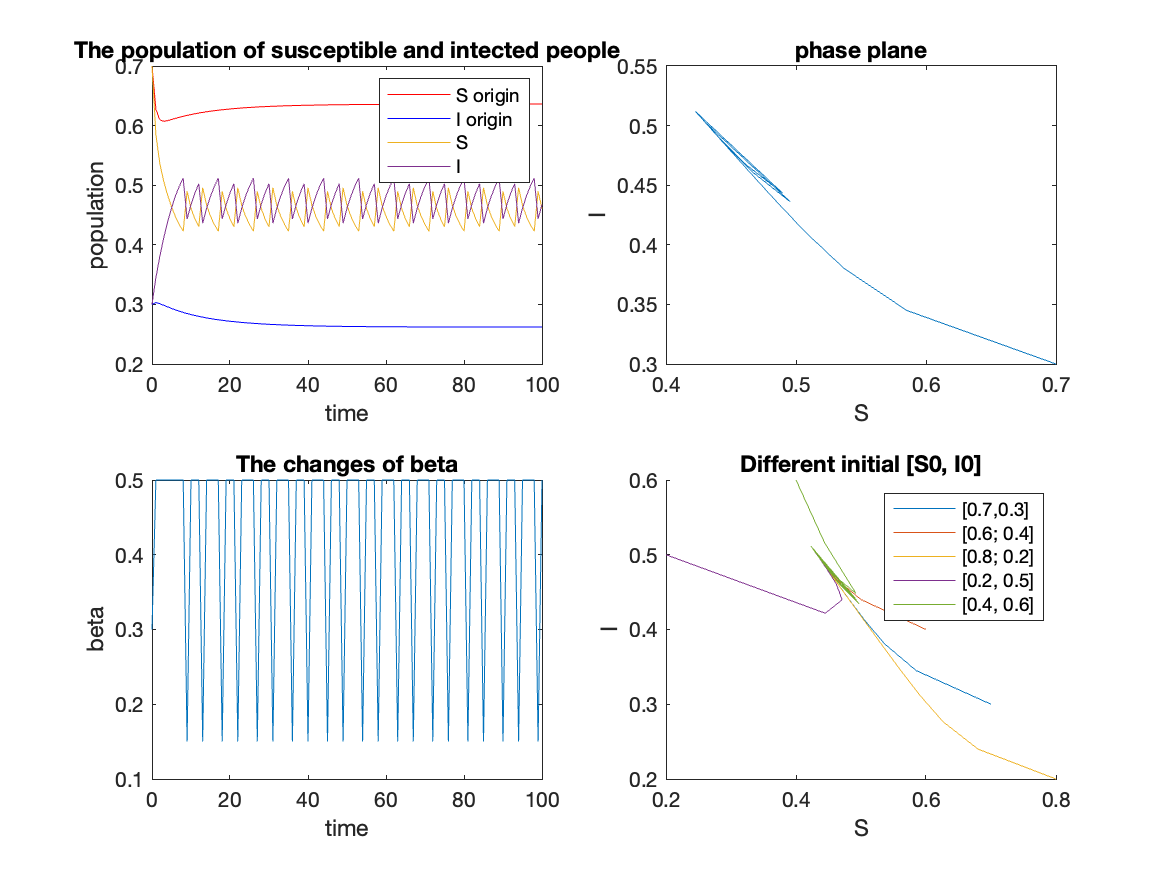
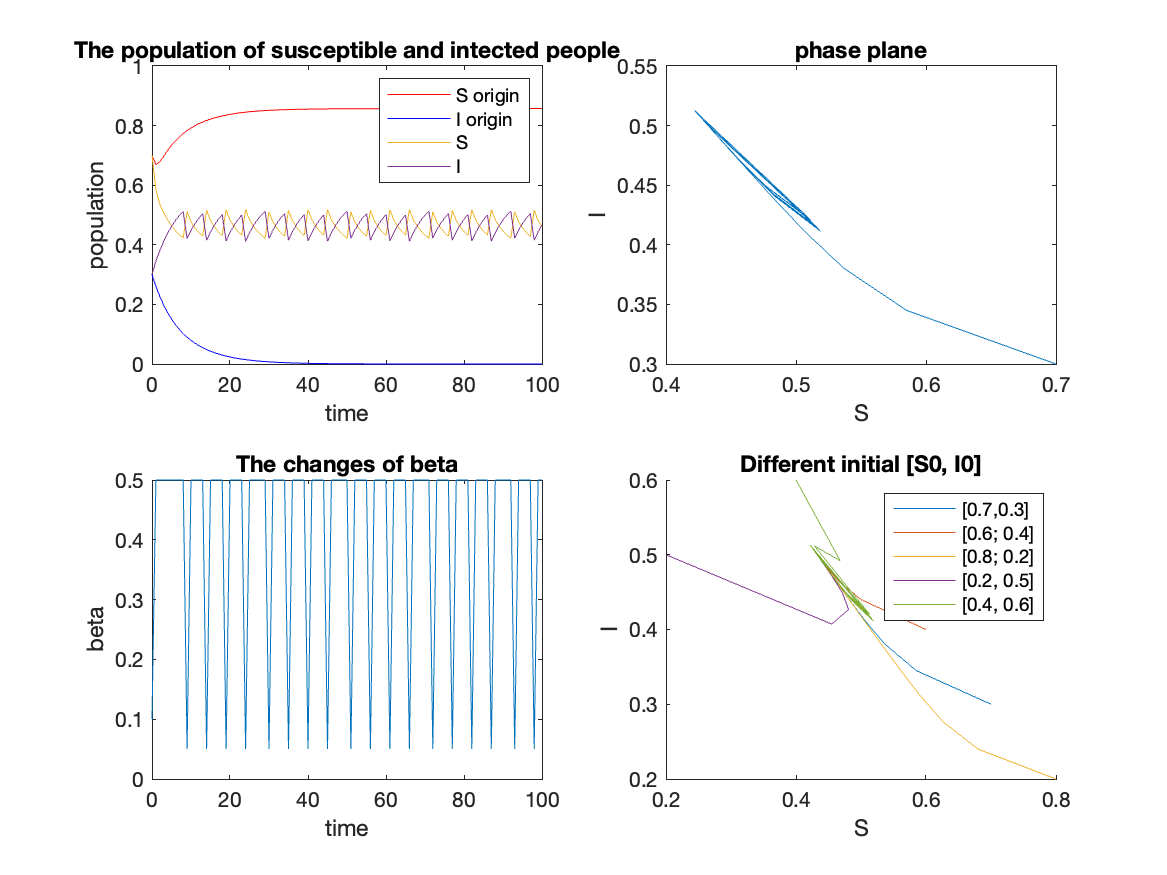
basic model

diff --git a/Basic Model/plot_different_beta0.m b/Basic Model/plot_different_beta0.m
@@ -19,7 +19,7 @@ N = (tspan(2)-tspan(1))/h;  % one day
 % infection rate when there is no policy
 
 
-beta0s = [0.3; 0.4; 0.5; 0.6; 0.7];
+beta0s = [0.1; 0.2; 0.3; 0.4; 0.5; 0.6; 0.7;0.8;0.9;1.0];
 eplison = 0.5;
 threshold = 0.5;    
 amplitudes = zeros(length(beta0s),2);
@@ -42,8 +42,8 @@ for A = 1:length(beta0s)
     
     title('The population of susceptible and intected people')
     
-    susceptible = Eulerp(1,10:100);
-    infected = Eulerp(2,10:100);
+    susceptible = Eulerp(1,80:100);
+    infected = Eulerp(2,80:100);
     
     max_S = max(susceptible);
     min_S = min(susceptible);
@@ -57,24 +57,7 @@ for A = 1:length(beta0s)
     amplitudes(A,2) = amplitude_I;
     fprintf("The amplitude of S: %.2f, I: %.2f\n", amplitude_S, amplitude_I);
 
-    tol = 1e-12;
-    for i = 1:length(withoutpolicy)-1
-        fprintf("%d %d\n", withoutpolicy(1,i),withoutpolicy(2,i));
-        diff_S = withoutpolicy(1,i+1) - withoutpolicy(1,i);
-        diff_I = withoutpolicy(2,i+1) - withoutpolicy(2,i);
-    
-        if abs(diff_S) < tol && abs(diff_I) < tol
-            fprintf("Difference: %d, %d\n", diff_S, diff_I);
-            fprintf("The steady state of (S, I): %.2f, %.2f\n", withoutpolicy(1,i),withoutpolicy(2,i));
-            differences(A,1) = withoutpolicy(1,i);
-            differences(A,2) = withoutpolicy(2,i);
-            break;
-        end
-    end 
-
-%     differences(A,1) = diff_S;
-%     differences(A,2) = diff_I;
-
+  
     % the phase plane S-I
     subplot(2,2,2);
     plot(Eulerp(1,:),Eulerp(2,:))
@@ -134,15 +117,3 @@ xlabel('initial beta');
 ylabel('amplitude of oscillation')
 legend('S', 'I');
 saveas(gcf,"amplitude-beta0",'png');
-
-figure;
-plot(beta0s, differences(:,1));
-hold on;
-plot(beta0s, differences(:,2));
-hold off;
-title("steady state of oscillation with difference beta")
-xlabel('initial beta');
-ylabel('steady state')
-legend('S', 'I');
-
-saveas(gcf,"steady-beta0",'png');

diff --git a/Basic Model/plot_different_steady_state.m b/Basic Model/plot_different_steady_state.m
@@ -1,0 +1,58 @@
+% for only one threshold policy (e.g. lockdown)
+% steady state will change
+
+tspan = [0 300];   % days
+S0 = 0.7;           % initial susceptible population 
+I0 = 0.3;           % initial intected proportion
+
+p0 = [S0; I0];      % vector of ode 
+h = 1;
+N = (tspan(2)-tspan(1))/h;  % one day
+
+% Euler methods
+% Eulerp: the vector[s,i] with threshold policy
+% withoutpolicy: vector[s,i] without policy
+% betas: the beta changes when threshold policy
+
+% change the parameters in Ic, beta0, eplison
+% the threshold of infectious people
+% infection rate when there is no policy
+
+
+beta0s = [0.1; 0.2; 0.3; 0.4; 0.5; 0.6; 0.7;0.8;0.9;1.0];
+eplison = 0.5;
+threshold = 0.5;    
+amplitudes = zeros(length(beta0s),2);
+differences = zeros(length(beta0s),2);
+for A = 1:length(beta0s)
+    [t1,Eulerp,withoutpolicy,betas] = basicmodel(tspan,p0,N,threshold,beta0s(A,1), eplison);  
+
+    tol = 1e-5;
+    for i = 1:length(withoutpolicy)-1
+        fprintf("%d %d\n", withoutpolicy(1,i),withoutpolicy(2,i));
+        diff_S = withoutpolicy(1,i+1) - withoutpolicy(1,i);
+        diff_I = withoutpolicy(2,i+1) - withoutpolicy(2,i);
+    
+        if abs(diff_S) < tol && abs(diff_I) < tol
+            fprintf("Difference: %d, %d\n", diff_S, diff_I);
+            fprintf("The steady state of (S, I): %.2f, %.2f\n", withoutpolicy(1,i),withoutpolicy(2,i));
+            differences(A,1) = withoutpolicy(1,i);
+            differences(A,2) = withoutpolicy(2,i);
+            break;
+        end
+    end 
+
+end
+
+
+figure;
+plot(beta0s, differences(:,1));
+hold on;
+plot(beta0s, differences(:,2));
+hold off;
+title("steady state of oscillation with difference beta")
+xlabel('initial beta');
+ylabel('steady state')
+legend('S', 'I');
+
+saveas(gcf,"steady-beta0",'png');

diff --git a/Basic Model/plot_different_Ic.m b/Basic Model/plot_different_Ic.m
@@ -20,7 +20,7 @@ N = (tspan(2)-tspan(1))/h;  % one day
 
 beta0 = 0.5;
 eplison = 0.5;
-thresholds = [0.1;0.2; 0.3; 0.4; 0.5; 0.6;0.7];    
+thresholds = [0.1;0.2; 0.3; 0.4; 0.5; 0.6;0.7;0.8;0.9;1.0];    
 amplitudes = zeros(length(thresholds),2);
 for A = 1:length(thresholds)
     fprintf('%d\n', A);
@@ -54,19 +54,36 @@ for A = 1:length(thresholds)
     ylabel('beta')
     title('The changes of beta')
 
-    susceptible = Eulerp(1,10:100);
-    infected = Eulerp(2,10:100);
+    susceptible = Eulerp(1,80:100);
+    infected = Eulerp(2,80:100);
     
     max_S = max(susceptible);
     min_S = min(susceptible);
-    amplitude_S = max_S - min_S;
+    
     
     max_I = max(infected);
     min_I = min(infected);
-    amplitude_I = max_I - min_I;
+    
+
+    [pks,locs] = findpeaks(susceptible);
+    [pks_I,locs_I] = findpeaks(infected);
+
+    if isempty(locs)
+        amplitude_S = 0;
+    else
+        amplitude_S = max_S - min_S;
+    end
+
+    if isempty(locs_I)
+        amplitude_I = 0;
+    else
+        amplitude_I = max_I - min_I;
+    end
     
     amplitudes(A,1) = amplitude_S;
     amplitudes(A,2) = amplitude_I;
+
+
     fprintf("The amplitude of S: %.2f, I: %.2f\n", amplitude_S, amplitude_I);
     
     % different initial state 定义多种不同的初始值
@@ -108,4 +125,7 @@ plot(thresholds,amplitudes(:,1));
 hold on;
 plot(thresholds,amplitudes(:,2));
 hold off;
+xlabel('threshold Ic')
+ylabel('amplitude')
+title('amplitude-threshold')
 saveas(gcf,"amplitude-threshold",'png');

diff --git a/Basic Model/am_eplison.m b/Basic Model/am_eplison.m
@@ -20,18 +20,18 @@ N = (tspan(2)-tspan(1))/h;  % one day
 
 beta0 = 0.5;
 eplison = 0.5;
-thresholds = [0.1;0.2; 0.3; 0.4; 0.5; 0.6;0.7]; 
+threshold = 0.5;
 steps = 0.01;
-amplitudes = zeros(length(0.1:steps:0.7),2);
+amplitudes = zeros(length(0.1:steps:1.0),2);
 % for A = 1:length(thresholds)
 i = 1;
-for A = 0.1:steps:0.7
+for A = 0.1:steps:1.0
     fprintf('%.2f\n', A);
 
-    [t1,Eulerp,withoutpolicy,betas] = basicmodel(tspan,p0,N,A,beta0, eplison);
+    [t1,Eulerp,withoutpolicy,betas] = basicmodel(tspan,p0,N,threshold,beta0, A);
 
-    susceptible = Eulerp(1,80:100);
-    infected = Eulerp(2,80:100);
+    susceptible = Eulerp(1,30:100);
+    infected = Eulerp(2,30:100);
     
     max_S = max(susceptible);
     min_S = min(susceptible);
@@ -63,11 +63,11 @@ end
 
 
 figure;
-plot(0.1:steps:0.7,amplitudes(:,1));
+plot(0.1:steps:1.0,amplitudes(:,1));
 hold on;
-plot(0.1:steps:0.7,amplitudes(:,2));
+plot(0.1:steps:1.0,amplitudes(:,2));
 hold off;
-xlabel('threshold Ic')
+xlabel('eplison')
 ylabel('amplitude')
-title('amplitude-threshold')
-saveas(gcf,"amplitude-threshold-details",'png');
+title('amplitude-eplison')
+saveas(gcf,"amplitude-eplison-details",'png');

diff --git a/Basic Model/fzeroode.m b/Basic Model/fzeroode.m
@@ -1,0 +1,28 @@
+
+sigma = 0.3;        % effectiveness of the vaccination sigma=1 vaccination no effect 0.3
+mu = 0.1;          % natural birth/death rate 0.05
+gamma = 0.1;        % recovery rate 0.1
+theta = 0.5;      % rate of loss of community 0.002
+phi = 0.1;         % vaccination rate  0.07
+
+beta = 0.5;
+% dS = mu - beta * S * I - (mu + theta + phi) * S + (gamma - theta) * I + theta;
+% dI = beta * S * I + sigma * beta * I * (1 - S - I) - (mu + gamma) * I;
+% 
+% fzero(@(x) odefunc(x, y0), [a, b]);
+
+% Define the system of equations
+equations = @(variables) [
+    mu - beta * variables(1) * variables(2) - (mu + theta + phi) * variables(1) + (gamma - theta) * variables(2) + theta;
+    beta * variables(1) * variables(2) + sigma * beta * variables(2) * (1 - variables(1) - variables(2)) - (mu + gamma) * variables(2)
+];
+
+% Set initial guess for the variables
+variables_guess = [0.5; 0.5];
+
+% Solve the system of equations using fsolve
+variables_steady = fsolve(equations, variables_guess);
+% variables_steady = fzero(@equations, variables_guess);
+% Extract the steady state values
+S_steady = variables_steady(1);
+I_steady = variables_steady(2);

diff --git a/Basic Model/am_beta.m b/Basic Model/am_beta.m
@@ -20,18 +20,18 @@ N = (tspan(2)-tspan(1))/h;  % one day
 
 beta0 = 0.5;
 eplison = 0.5;
-thresholds = [0.1;0.2; 0.3; 0.4; 0.5; 0.6;0.7]; 
+threshold = 0.5;
 steps = 0.01;
-amplitudes = zeros(length(0.1:steps:0.7),2);
+amplitudes = zeros(length(0.1:steps:1.0),2);
 % for A = 1:length(thresholds)
 i = 1;
-for A = 0.1:steps:0.7
+for A = 0.1:steps:1.0
     fprintf('%.2f\n', A);
 
-    [t1,Eulerp,withoutpolicy,betas] = basicmodel(tspan,p0,N,A,beta0, eplison);
+    [t1,Eulerp,withoutpolicy,betas] = basicmodel(tspan,p0,N,threshold,A, eplison);
 
-    susceptible = Eulerp(1,80:100);
-    infected = Eulerp(2,80:100);
+    susceptible = Eulerp(1,40:100);
+    infected = Eulerp(2,40:100);
     
     max_S = max(susceptible);
     min_S = min(susceptible);
@@ -63,11 +63,8 @@ end
 
 
 figure;
-plot(0.1:steps:0.7,amplitudes(:,1));
+plot(0.1:steps:1.0,amplitudes(:,1));
 hold on;
-plot(0.1:steps:0.7,amplitudes(:,2));
+plot(0.1:steps:1.0,amplitudes(:,2));
 hold off;
-xlabel('threshold Ic')
-ylabel('amplitude')
-title('amplitude-threshold')
-saveas(gcf,"amplitude-threshold-details",'png');
+saveas(gcf,"amplitude-beta0-details",'png');

diff --git a/Basic Model/plot_only_one.m b/Basic Model/plot_only_one.m
@@ -1,6 +1,6 @@
 % for only one threshold policy (e.g. lockdown)
 
-tspan = [0 100];   % days
+tspan = [0 200];   % days
 S0 = 0.7;           % initial susceptible population 
 I0 = 0.3;           % initial intected proportion
 
@@ -32,8 +32,8 @@ xlabel('time')
 ylabel('population')
     
 title('The population of susceptible and intected people')
-susceptible = Eulerp(1,10:100);
-infected = Eulerp(2,10:100);
+susceptible = Eulerp(1,80:100);
+infected = Eulerp(2,80:100);
 
 max_S = max(susceptible);
 min_S = min(susceptible);
@@ -43,4 +43,20 @@ max_I = max(infected);
 min_I = min(infected);
 amplitude_I = max_I - min_I;
 
+[pks,locs] = findpeaks(susceptible);
+[pks_I,locs_I] = findpeaks(infected);
+
+if isempty(locs)
+    amplitude_S = 0;
+end
+
+if isempty(locs_I)
+    amplitude_I = 0;
+end
+
+
+
 fprintf("The amplitude of S: %.2f, I: %.2f\n", amplitude_S, amplitude_I);
+
+% [Pxx,f] = periodogram(susceptible)
+

diff --git a/Basic Model/natural.m b/Basic Model/natural.m
@@ -1,6 +1,6 @@
 figure;
 
-tspan = [0 100];   % days
+tspan = [0 300];   % days
 S0 = 0.7;           % initial susceptible population 
 I0 = 0.3;           % initial intected proportion
 
@@ -13,9 +13,10 @@ N = (tspan(2)-tspan(1))/h;  % one day
 % withoutpolicy: vector[s,i] without policy
 % betas: the beta changes when threshold policy
 [t1,Eulerp,withoutpolicy] = naturalmodel(tspan,p0,N);
-tol = 1e-12;
+% tol = 1e-12;
+tol = 1e-5;
 for i = 1:length(withoutpolicy)-1
-    fprintf("%d %d\n", withoutpolicy(1,i),withoutpolicy(2,i));
+%     fprintf("%d %d\n", withoutpolicy(1,i),withoutpolicy(2,i));
     diff_S = withoutpolicy(1,i+1) - withoutpolicy(1,i);
     diff_I = withoutpolicy(2,i+1) - withoutpolicy(2,i);
 

diff --git a/Basic Model/plot_different_eplison.m b/Basic Model/plot_different_eplison.m
@@ -19,7 +19,7 @@ N = (tspan(2)-tspan(1))/h;  % one day
 
 
 beta0s = 0.5;
-eplisons = [0.3; 0.4; 0.5; 0.6; 0.7];
+eplisons = [0.1;0.2;0.3; 0.4; 0.5; 0.6; 0.7;0.8;0.9;1.0];
 threshold = 0.5;    
 amplitudes = zeros(length(eplisons),2);
 for A = 1:length(eplisons)
@@ -109,4 +109,7 @@ plot(eplisons,amplitudes(:,1));
 hold on;
 plot(eplisons,amplitudes(:,2));
 hold off;
+xlabel('eplison')
+ylabel('amplitude')
+title('amplitude-eplison')
 saveas(gcf,"amplitude-eplison",'png');
